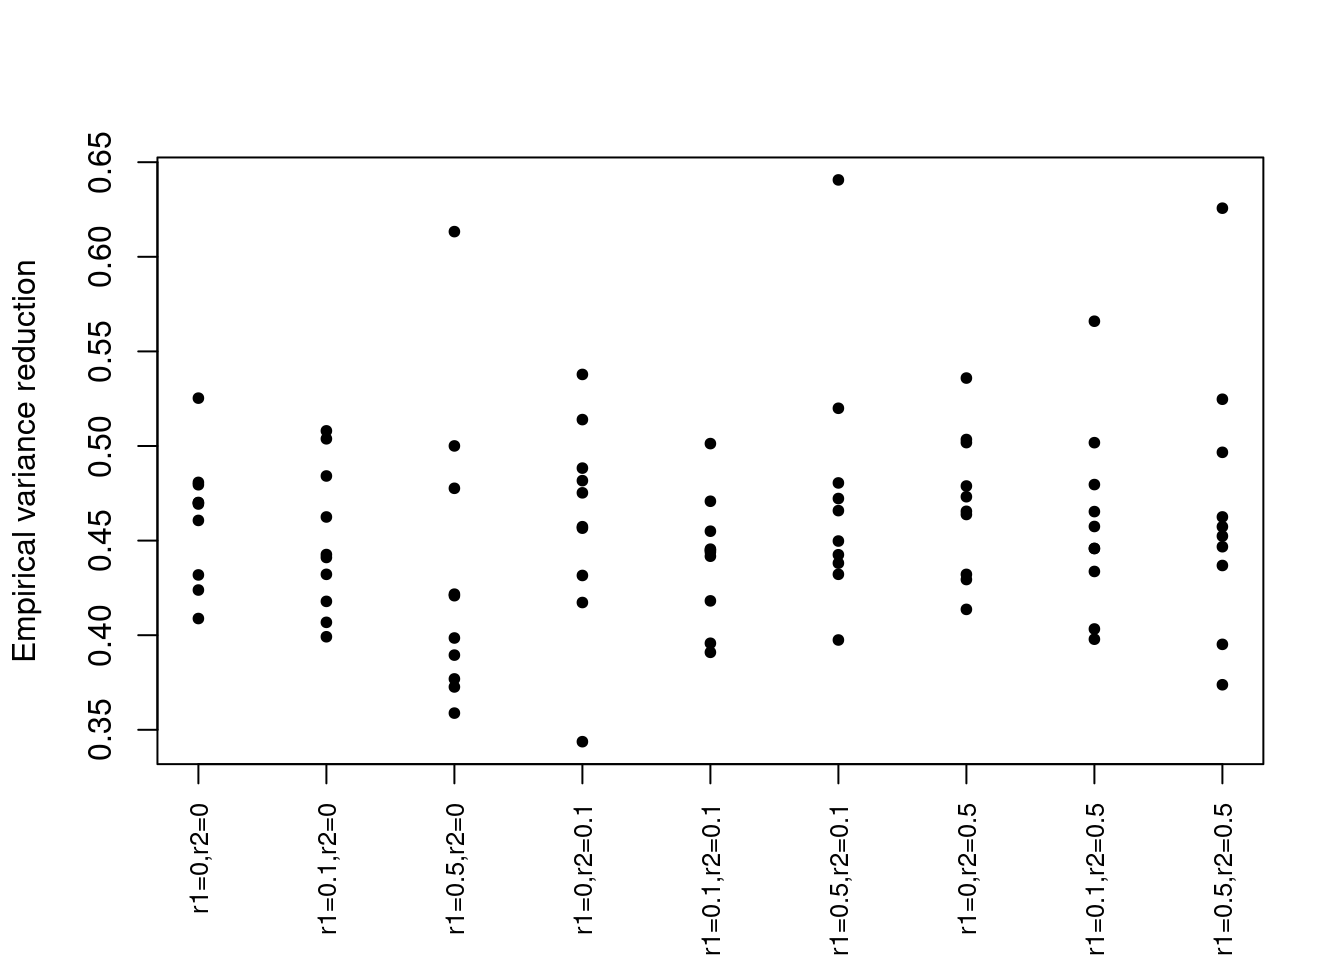
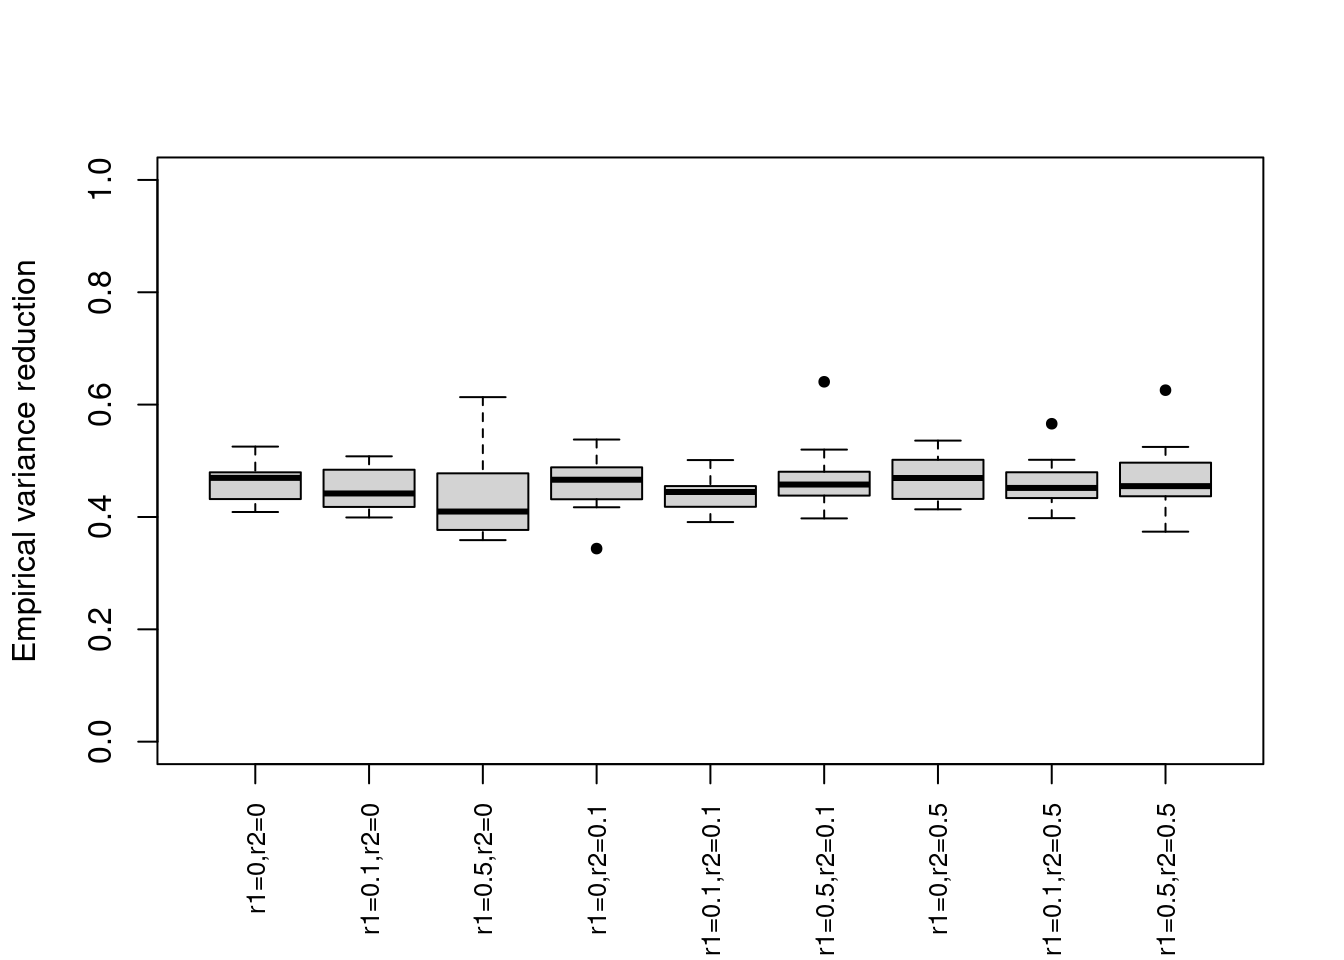
Build site.

diff --git a/docs/calibration_trio.html b/docs/calibration_trio.html
@@ -522,15 +522,15 @@ project makes it easier to run your code on other machines.</p>
 <div class="panel panel-default">
 <div class="panel-heading">
 <p class="panel-title">
-<a data-toggle="collapse" data-parent="#workflowr-checks" href="#strongRepositoryversionstrongahrefhttpsgithubcomyunqiyang0215simulationcalibratedmrtreed1a6b1ea32246c15855c3a44555cfa48fc14144ftargetblankd1a6b1ea">
+<a data-toggle="collapse" data-parent="#workflowr-checks" href="#strongRepositoryversionstrongahrefhttpsgithubcomyunqiyang0215simulationcalibratedmrtree68dd118b75fc3139b58f76c730215453bbb590d5targetblank68dd118a">
 <span class="glyphicon glyphicon-ok text-success"
 aria-hidden="true"></span> <strong>Repository version:</strong>
-<a href="https://github.com/yunqiyang0215/simulation-calibrated-mr/tree/d1a6b1ea32246c15855c3a44555cfa48fc14144f" target="_blank">d1a6b1e</a>
+<a href="https://github.com/yunqiyang0215/simulation-calibrated-mr/tree/68dd118b75fc3139b58f76c730215453bbb590d5" target="_blank">68dd118</a>
 </a>
 </p>
 </div>
 <div
[2 lines of base64/hex data omitted]
 class="panel-collapse collapse">
 <div class="panel-body">
 <p>
@@ -540,7 +540,7 @@ reproducibility.
 </p>
 <p>
 The results in this page were generated with repository version
-<a href="https://github.com/yunqiyang0215/simulation-calibrated-mr/tree/d1a6b1ea32246c15855c3a44555cfa48fc14144f" target="_blank">d1a6b1e</a>.
+<a href="https://github.com/yunqiyang0215/simulation-calibrated-mr/tree/68dd118b75fc3139b58f76c730215453bbb590d5" target="_blank">68dd118</a>.
 See the <em>Past versions</em> tab to see a history of the changes made
 to the R Markdown and HTML files.
 </p>
@@ -608,6 +608,40 @@ Message
 </tr>
 </thead>
 <tbody>
+<tr>
+<td>
+Rmd
+</td>
+<td>
+<a href="https://github.com/yunqiyang0215/simulation-calibrated-mr/blob/68dd118b75fc3139b58f76c730215453bbb590d5/analysis/calibration_trio.Rmd" target="_blank">68dd118</a>
+</td>
+<td>
+yunqi yang
+</td>
+<td>
+2024-04-14
+</td>
+<td>
+wflow_publish("analysis/calibration_trio.Rmd")
+</td>
+</tr>
+<tr>
+<td>
+html
+</td>
+<td>
+<a href="https://rawcdn.githack.com/yunqiyang0215/simulation-calibrated-mr/79b31669a0875b61025769dbb3936eb9d725ecec/docs/calibration_trio.html" target="_blank">79b3166</a>
+</td>
+<td>
+yunqi yang
+</td>
+<td>
+2024-04-14
+</td>
+<td>
+Build site.
+</td>
+</tr>
 <tr>
 <td>
 Rmd
@@ -1013,7 +1047,7 @@ rownames(vr) = r1
 
 # Create a vector for equally spaced x-values
 x_values = c(1, 2, 3)
-plot(x = rep(x_values, p), y = c(vr), xlab = &quot;r1 value&quot;, ylab = &quot;Empirical variance reduction&quot;, xaxt=&quot;n&quot;, pch = 20)
+plot(x = as.factor(rep(x_values, p)), y = c(vr), xlab = &quot;r1 value&quot;, ylab = &quot;Empirical variance reduction&quot;, xaxt=&quot;n&quot;, pch = 20, ylim = c(0, 1))
 axis(1, at = x_values, labels = c(&quot;0&quot;, &quot;0.1&quot;, &quot;0.5&quot;))</code></pre>
 <p><img src="figure/calibration_trio.Rmd/unnamed-chunk-9-1.png" width="672" style="display: block; margin: auto;" /></p>
 <p>
@@ -1038,6 +1072,17 @@ Date
 </tr>
 </thead>
 <tbody>
+<tr>
+<td>
+<a href="https://github.com/yunqiyang0215/simulation-calibrated-mr/blob/79b31669a0875b61025769dbb3936eb9d725ecec/docs/figure/calibration_trio.Rmd/unnamed-chunk-9-1.png" target="_blank">79b3166</a>
+</td>
+<td>
+yunqi yang
+</td>
+<td>
+2024-04-14
+</td>
+</tr>
 <tr>
 <td>
 <a href="https://github.com/yunqiyang0215/simulation-calibrated-mr/blob/465810c48369d12852aabe9ded81776c12165d74/docs/figure/calibration_trio.Rmd/unnamed-chunk-9-1.png" target="_blank">465810c</a>
@@ -1099,8 +1144,8 @@ for (i in 1:p) {
 <pre class="r"><code>vr &lt;- (empirical_var_raw - empirical_var_cali) / empirical_var_raw
 combination_labels &lt;- apply(combinations, 1, function(x) paste0(&quot;r1=&quot;, x[1], &quot;,r2=&quot;, x[2]))
 x_values = 1:length(combination_labels)
-plot(x = rep(x_values, p), c(vr), type = &quot;p&quot;,
-     xaxt = &#39;n&#39;, xlab = &quot;&quot;, ylab = &quot;Empirical variance reduction&quot;, pch = 20)
+plot(x = as.factor(rep(x_values, p)), c(vr), type = &quot;p&quot;,
+     xaxt = &#39;n&#39;, xlab = &quot;&quot;, ylab = &quot;Empirical variance reduction&quot;, pch = 20, ylim = c(0, 1))
 axis(side = 1, at = c(1:length(combination_labels)), labels = rep(combination_labels), las = 2, cex.axis = 0.8)</code></pre>
 <p><img src="figure/calibration_trio.Rmd/unnamed-chunk-11-1.png" width="672" style="display: block; margin: auto;" /></p>
 <p>
@@ -1125,6 +1170,17 @@ Date
 </tr>
 </thead>
 <tbody>
+<tr>
+<td>
+<a href="https://github.com/yunqiyang0215/simulation-calibrated-mr/blob/79b31669a0875b61025769dbb3936eb9d725ecec/docs/figure/calibration_trio.Rmd/unnamed-chunk-11-1.png" target="_blank">79b3166</a>
+</td>
+<td>
+yunqi yang
+</td>
+<td>
+2024-04-14
+</td>
+</tr>
 <tr>
 <td>
 <a href="https://github.com/yunqiyang0215/simulation-calibrated-mr/blob/465810c48369d12852aabe9ded81776c12165d74/docs/figure/calibration_trio.Rmd/unnamed-chunk-11-1.png" target="_blank">465810c</a>
